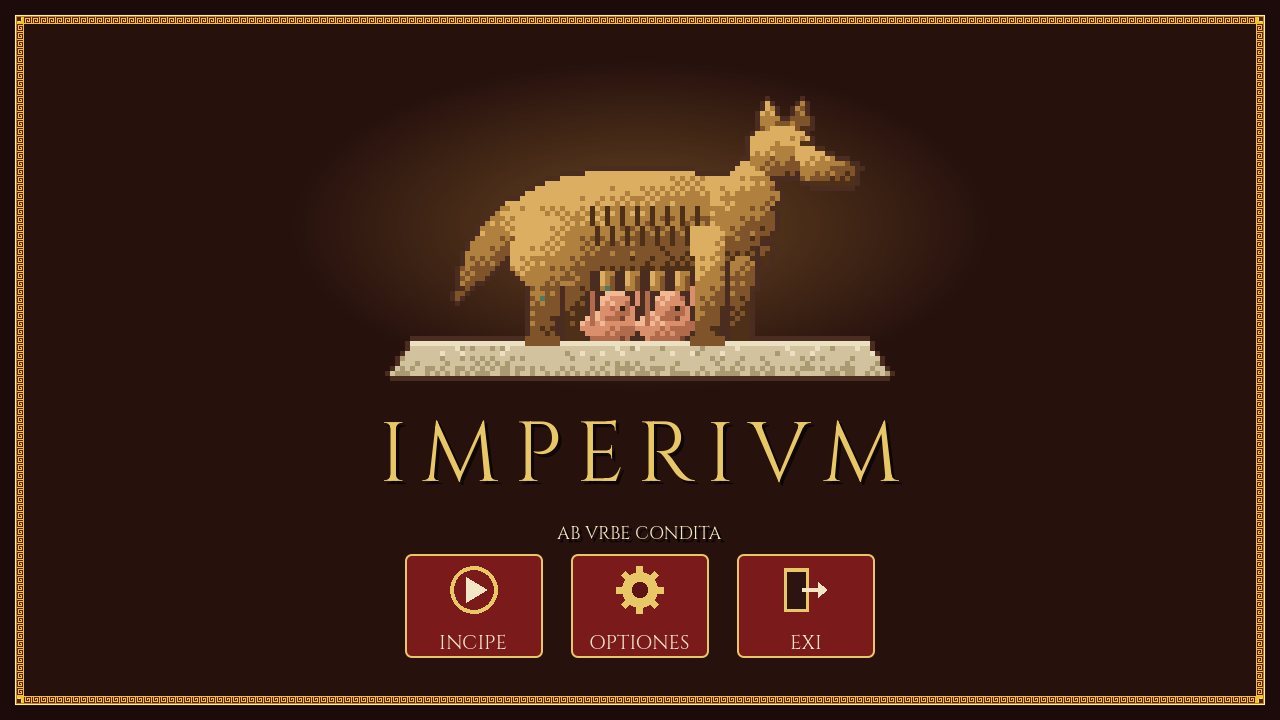
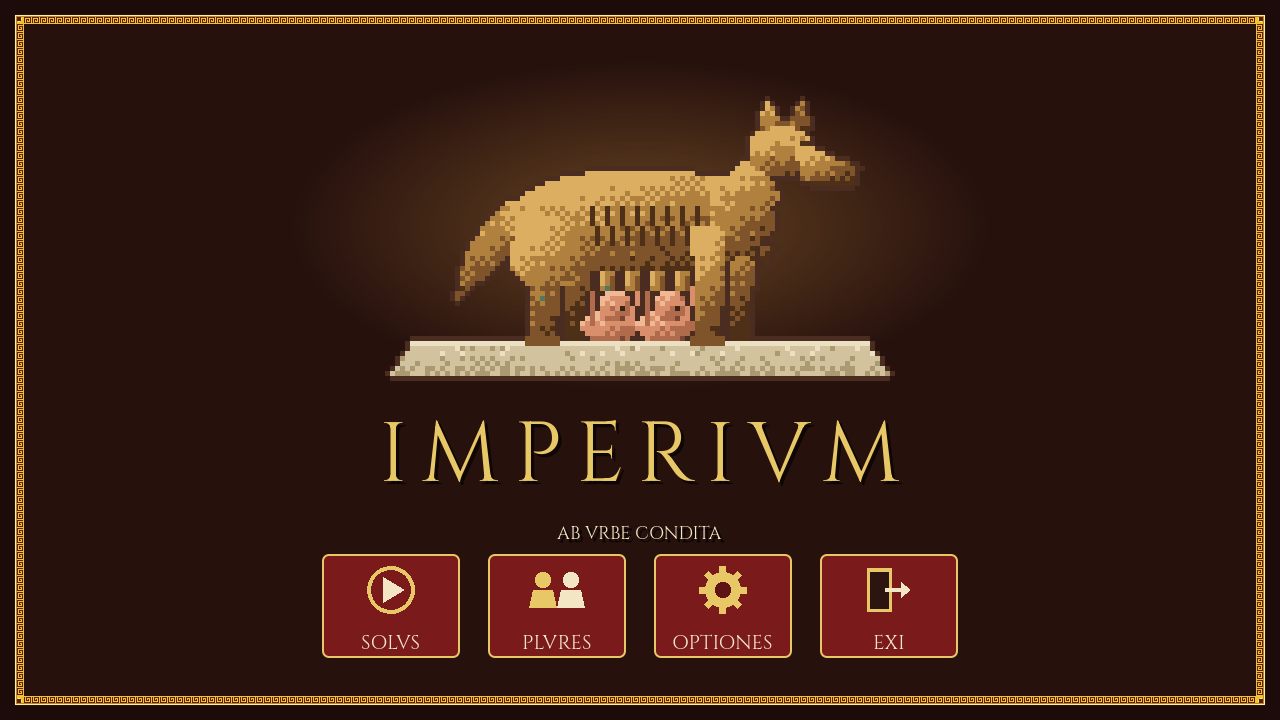
Screenshots: the title with its new buttons, and the multiplayer lobby

Changed region(s): [[0.25, 0.7639, 0.75, 0.9167]]

diff --git a/README.md b/README.md
@@ -87,6 +87,8 @@ presses *Incipe*; every computer then builds the same world from the host's seed
 synchronized yet:** after the start each computer plays its own copy of that map, with no orders shared
 between players. See [Multiplayer](#multiplayer) below.
 
+![The multiplayer lobby: the host sees the addresses to give out, who has joined and who is ready](docs/screenshots/lobby.png)
+
 ## Features
 
 - **Five eras** from the Kingdom (753 BC) to the Late Empire (476 AD); the buildings, their names
